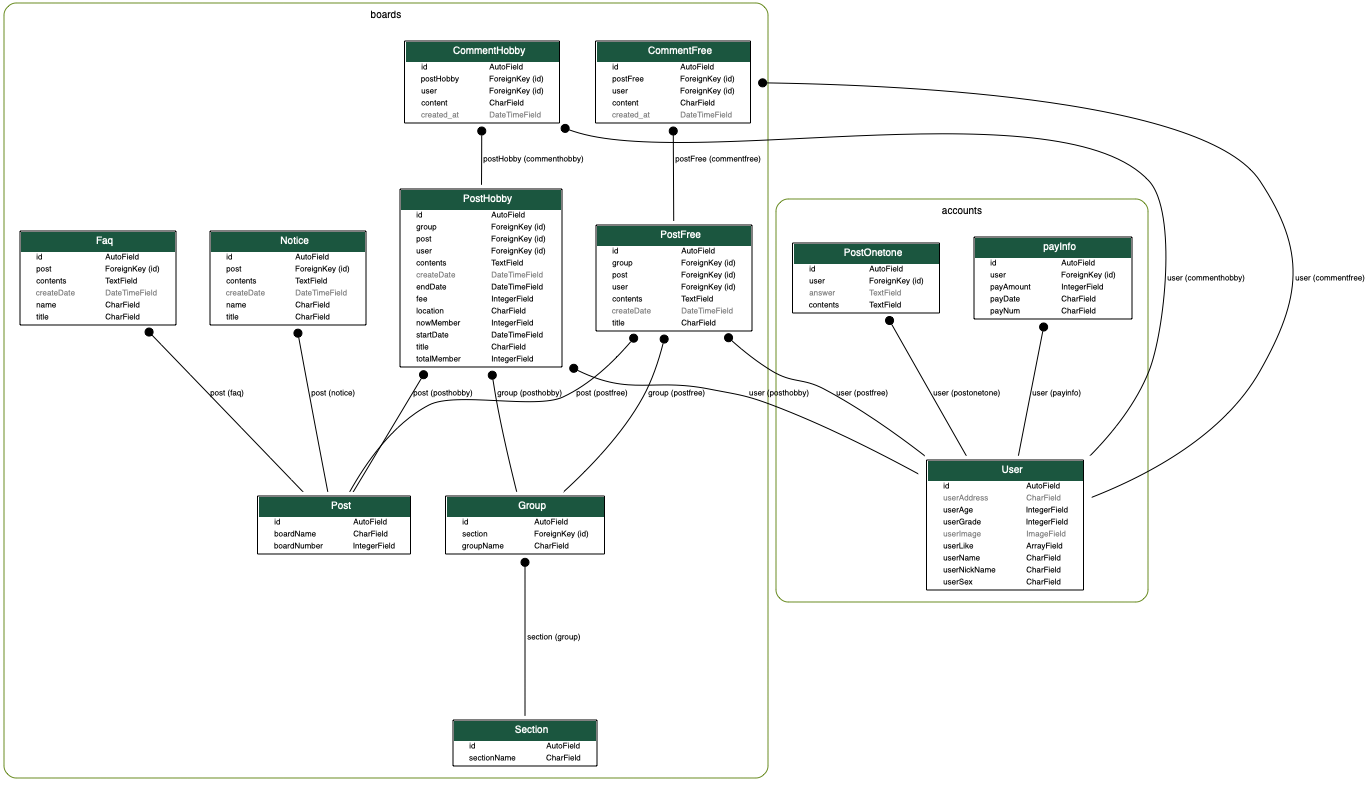
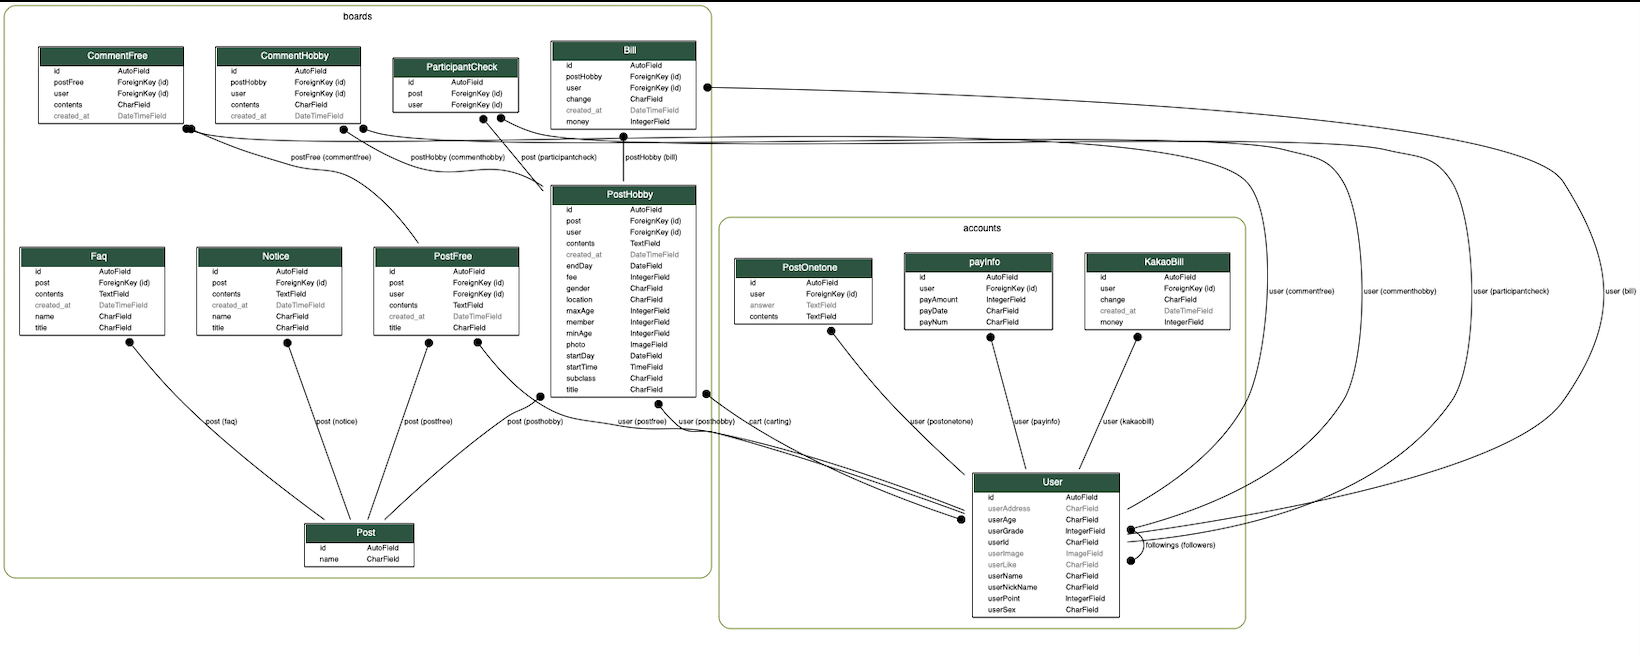
Edit erd.png

diff --git a/hobby_back/boards/models.py b/hobby_back/boards/models.py
@@ -11,7 +11,7 @@ class Post(models.Model):
         ('공지사항', '공지사항'),
         ('FAQ', 'FAQ')
     )
-    name = models.CharField(max_length=50, choices=what_board, default=hobby)
+    name = models.CharField(max_length=50, choices=what_board, default='모임 게시판')
 
     def __str__(self):
         return self.name
@@ -32,7 +32,7 @@ class PostHobby(models.Model):
         ('남성', '남성'),
         ('여성', '여성')
     )
-    gender = models.CharField(max_length=10, choices=about_gender, default=regardless) 
+    gender = models.CharField(max_length=10, choices=about_gender, default='상관없음') 
     minAge = models.IntegerField(default=10)
     maxAge = models.IntegerField(default=100)  
     member = models.IntegerField() 

diff --git a/hobby_back/hobby_back/settings.py b/hobby_back/hobby_back/settings.py
@@ -36,7 +36,7 @@ INSTALLED_APPS = [
     'allauth.socialaccount.providers.naver',
     'corsheaders',
     # 'imagekit',
-    # 'django_extensions',
+    'django_extensions',
     'drf_yasg',
     'debug_toolbar',
     'boards',
@@ -156,10 +156,10 @@ CORS_ALLOW_CREDENTIALS = True
 CORS_ORIGIN_ALLOW_ALL = True
 
 # graph model
-# GRAPH_MODELS = {
-#   'all_applications': True,
-#   'group_models': True,
-# }
+GRAPH_MODELS = {
+  'all_applications': True,
+  'group_models': True,
+}
 
 SUIT_CONFIG = {
     'ADMIN_NAME': '관리자 페이지',
